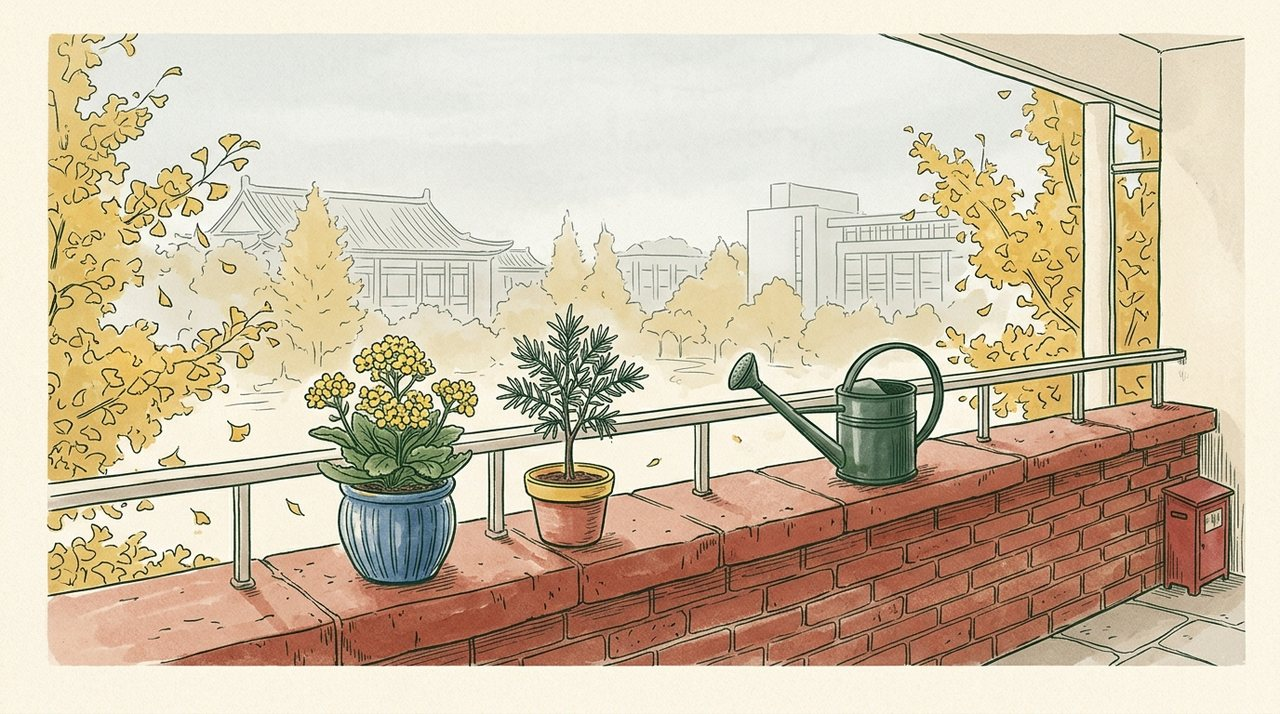
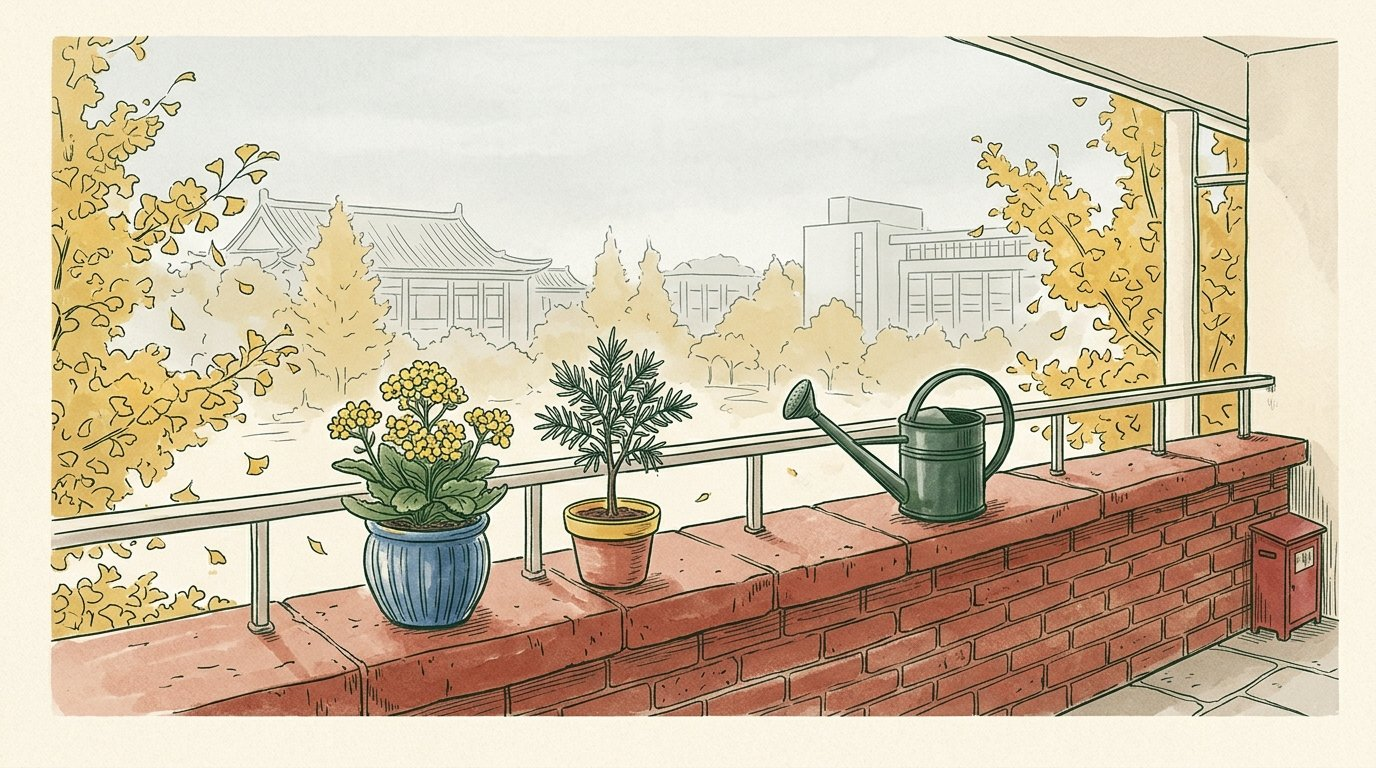
feat(img): 补齐校园/天气/动作配图，产品图统一按 q85 重出
新增：天气（雨/阵雨/雪/雷）、状态（补光灯）、动作（探土/备水/浇水/搬动）、20+ 张校园与节气画卷。

压图口径固化到 tools/reencode-img.py：场景/植株不缩尺寸只降质量 q85，图标缩到 384px 正方形 q85，用 Pillow 编码（sips 的 quality 档会被合并），optimize+progressive。原先的图按新口径重出，肉眼无损、体积更省。

diff --git a/tools/reencode-img.py b/tools/reencode-img.py
@@ -1,0 +1,88 @@
+#!/usr/bin/env python3
+"""按统一口径重出 public/img/ 下的产品图。
+
+口径（见 AGENTS.md「图片约定」）：
+  · 场景图   —— 原尺寸不缩，q85
+  · 植株图   —— 原尺寸不缩，q85
+  · 图标     —— 缩到 384px（显示最大 48px，DPR2 仍 4 倍富余），q85
+
+输入取 public/img/_source/<组>/<名>.jpg（原始大图，不进 Git），
+输出写回 public/img/<组>/<名>.jpg。
+
+用法：
+  python3 tools/reencode-img.py              # 全部重出
+  python3 tools/reencode-img.py scenes       # 只重出某个组
+  python3 tools/reencode-img.py --dry-run    # 只看会变成多大，不写文件
+"""
+import io
+import os
+import sys
+from pathlib import Path
+
+from PIL import Image
+
+ROOT = Path(__file__).resolve().parent.parent
+PUB = ROOT / 'public' / 'img'
+SRC = PUB / '_source'
+
+QUALITY = 85
+# 图标缩到这个边长：页面最大 48px 显示，DPR2 需要 96px，384 留足余量又不浪费
+ICON_SIZE = 384
+ICON_GROUPS = {'weather', 'status', 'actions'}
+# 场景图里也有页面只按小尺寸显示的（空状态 96px），别整张 1024 塞进页面
+SMALL_SCENES = {'scene_empty_state.jpg': 384}
+
+
+def encode(im, quality=QUALITY):
+    """编码成渐进式 JPEG，返回字节。渐进式先出模糊轮廓，网络慢时观感更好。"""
+    buf = io.BytesIO()
+    im.convert('RGB').save(buf, 'JPEG', quality=quality, optimize=True, progressive=True)
+    return buf.getvalue()
+
+
+def target_size(group, name, im):
+    """产品图的目标尺寸：图标缩到 ICON_SIZE，少数小尺寸场景同理，其余保持原尺寸。"""
+    if group in ICON_GROUPS and max(im.size) > ICON_SIZE:
+        return im.resize((ICON_SIZE, ICON_SIZE), Image.LANCZOS)
+    edge = SMALL_SCENES.get(name) if group == 'scenes' else None
+    if edge and max(im.size) > edge:
+        return im.resize((edge, edge), Image.LANCZOS)
+    return im
+
+
+def main():
+    args = [a for a in sys.argv[1:] if not a.startswith('-')]
+    dry = '--dry-run' in sys.argv
+    groups = args or [d.name for d in sorted(SRC.iterdir()) if d.is_dir()]
+
+    total_before = total_after = 0
+    count = 0
+    for group in groups:
+        src_dir, out_dir = SRC / group, PUB / group
+        if not src_dir.is_dir():
+            print(f'跳过 {group}：没有 _source 目录')
+            continue
+        out_dir.mkdir(parents=True, exist_ok=True)
+        for src in sorted(src_dir.glob('*.jpg')):
+            out = out_dir / src.name
+            before = out.stat().st_size if out.exists() else 0
+            with Image.open(src) as im:
+                im = target_size(group, src.name, im)
+                data = encode(im)
+                dims = f'{im.size[0]}x{im.size[1]}'
+            if not dry:
+                out.write_bytes(data)
+            after = len(data)
+            total_before += before
+            total_after += after
+            count += 1
+            flag = '  ' if not before else ('↓' if after < before else '↑')
+            print(f'{flag} {group}/{src.name:36} {before // 1024:5}K → {after // 1024:5}K  {dims}')
+
+    verb = '预计' if dry else '实际'
+    print(f'\n{count} 张：{total_before / 1048576:.1f}M → {total_after / 1048576:.1f}M'
+          f'（{verb}，均值 {total_after // max(count, 1) // 1024}K/张）')
+
+
+if __name__ == '__main__':
+    main()
